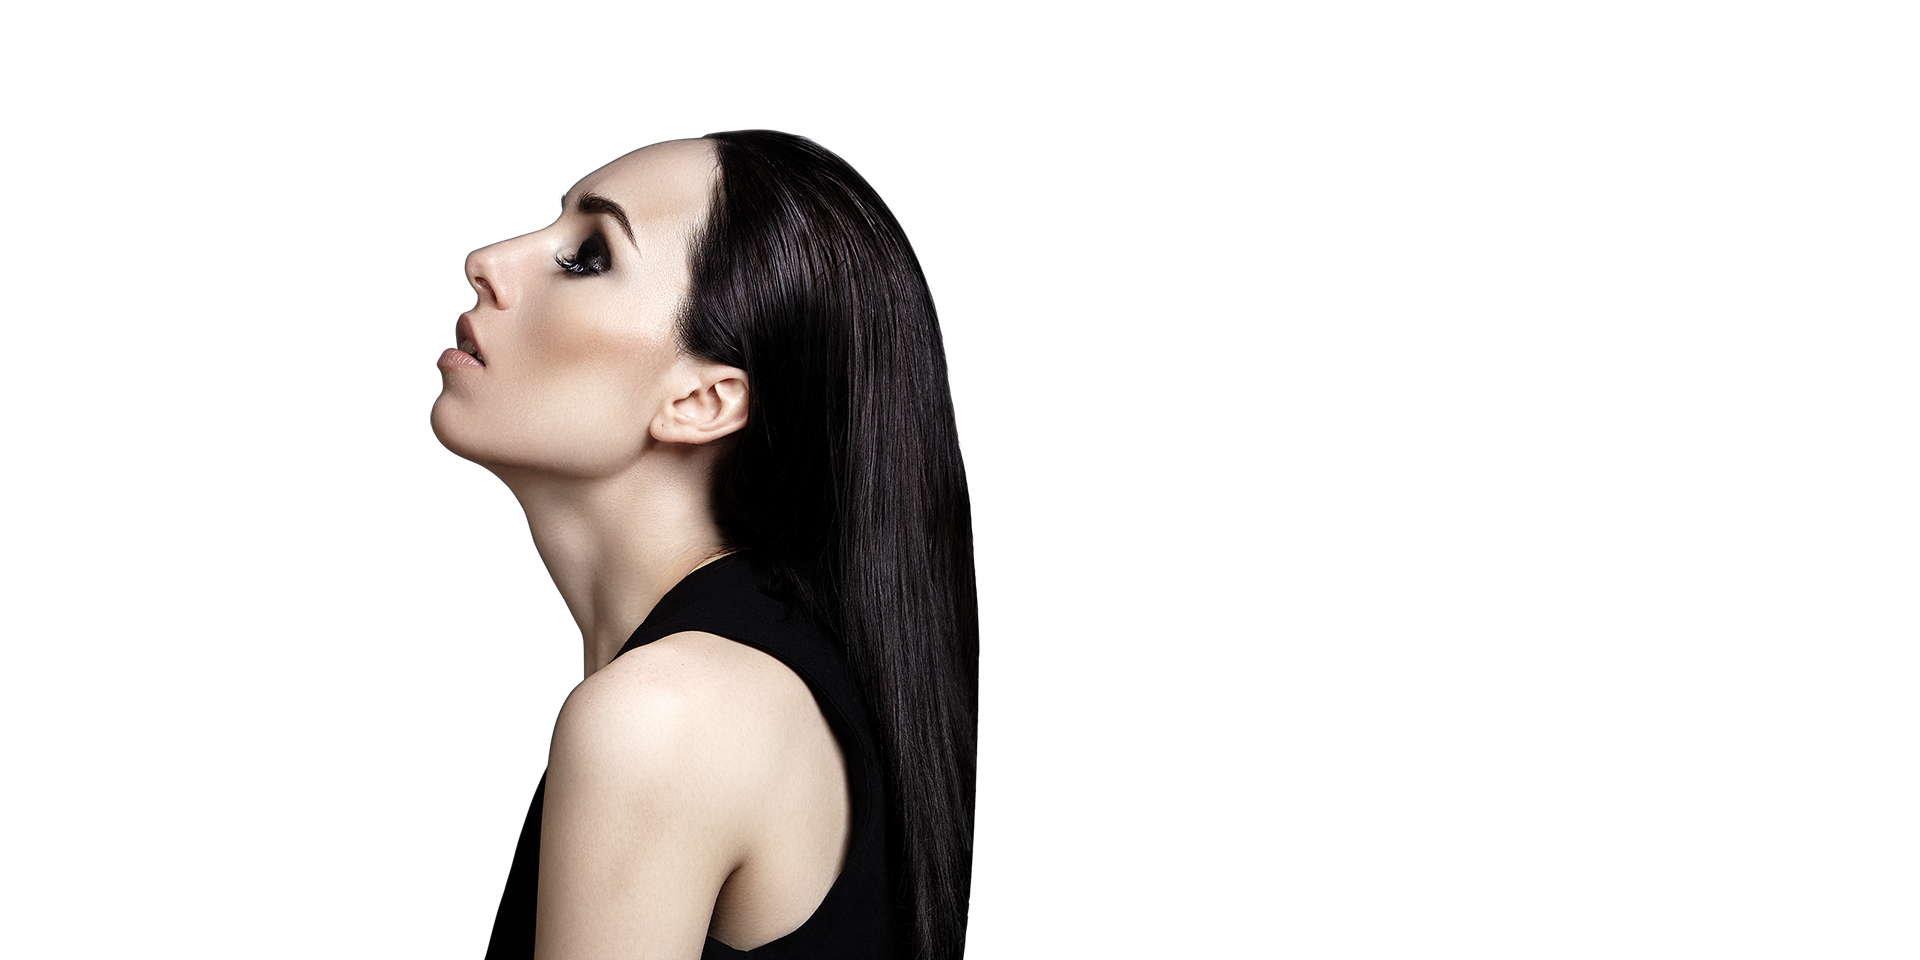
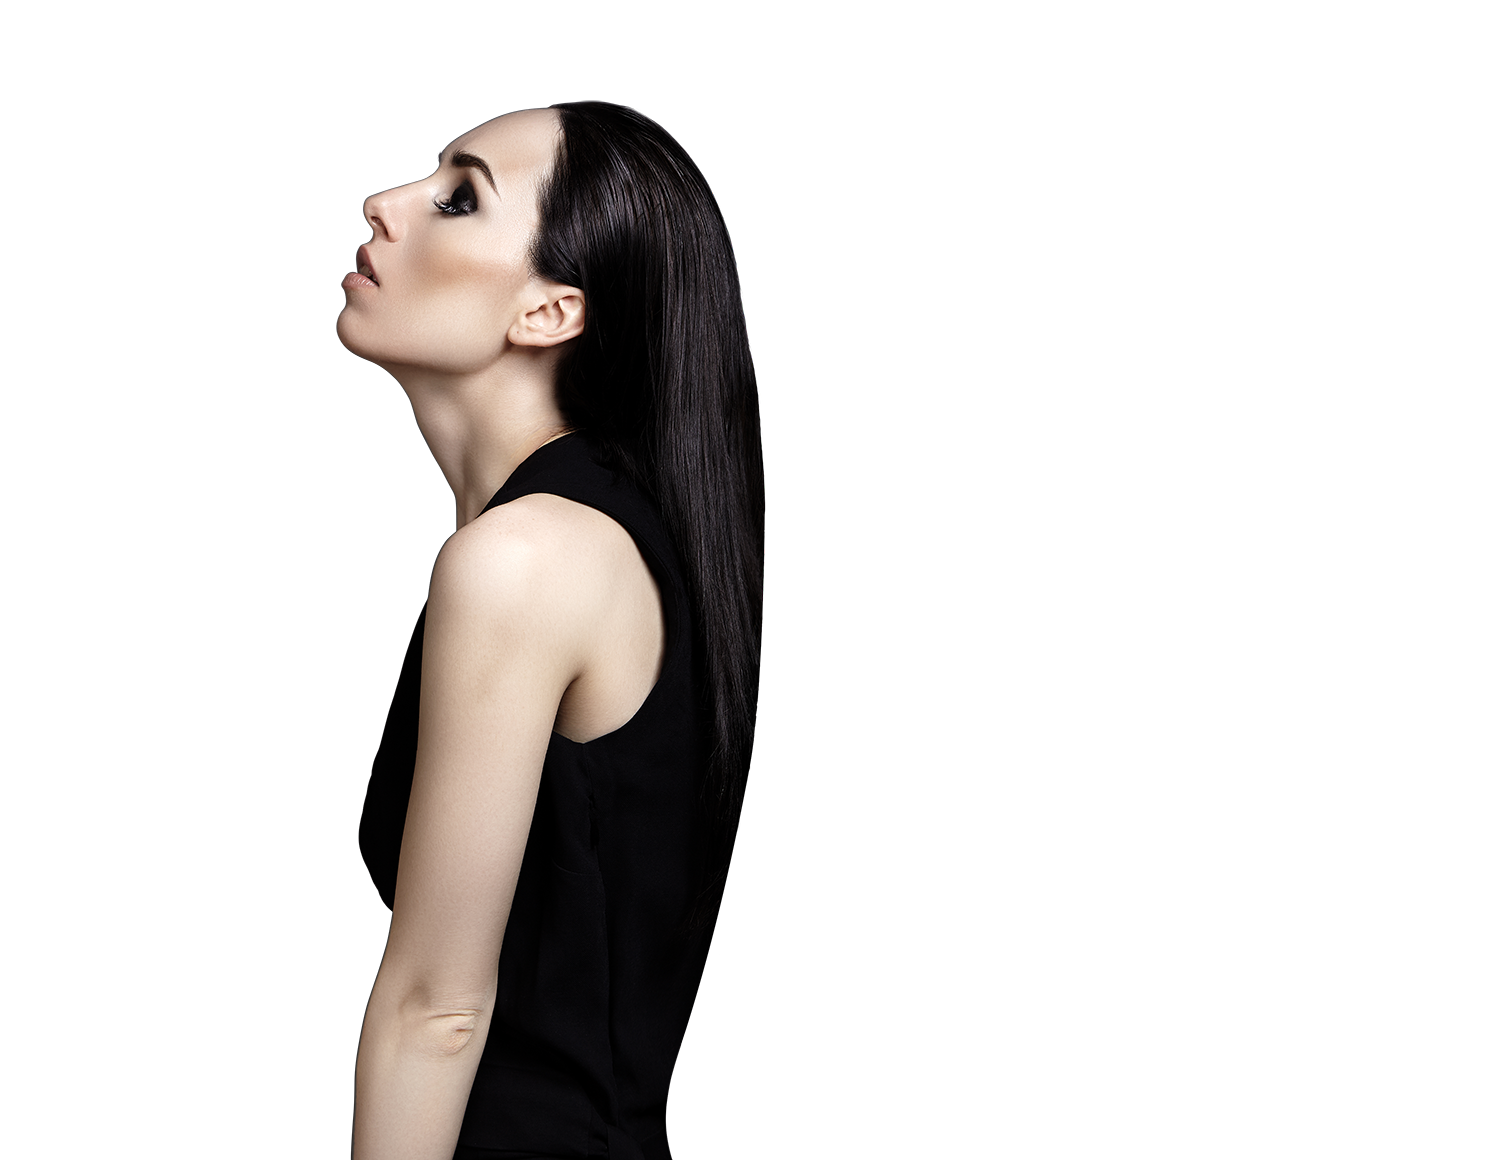
Замены главных фоток

Changed region(s): [[0.2147, 0.0625, 0.5213, 1.0]]

diff --git a/app/javascript/packs/app.js b/app/javascript/packs/app.js
@@ -11,6 +11,8 @@ import '../styles/app.css';
 import './legacy/common.js';
 import './legacy/swipers.js';
 
+import '../images/og.jpg';
+
 var componentRequireContext = require.context("components", true)
 var ReactRailsUJS = require("react_ujs")
 ReactRailsUJS.useContext(componentRequireContext)

diff --git a/app/javascript/styles/pages/index.css b/app/javascript/styles/pages/index.css
@@ -21,7 +21,7 @@
 
       .l,
       .r {
-        background-position: center bottom;
+        background-position: center top;
         background-size: cover;
         position: absolute;
         height: 100%;
